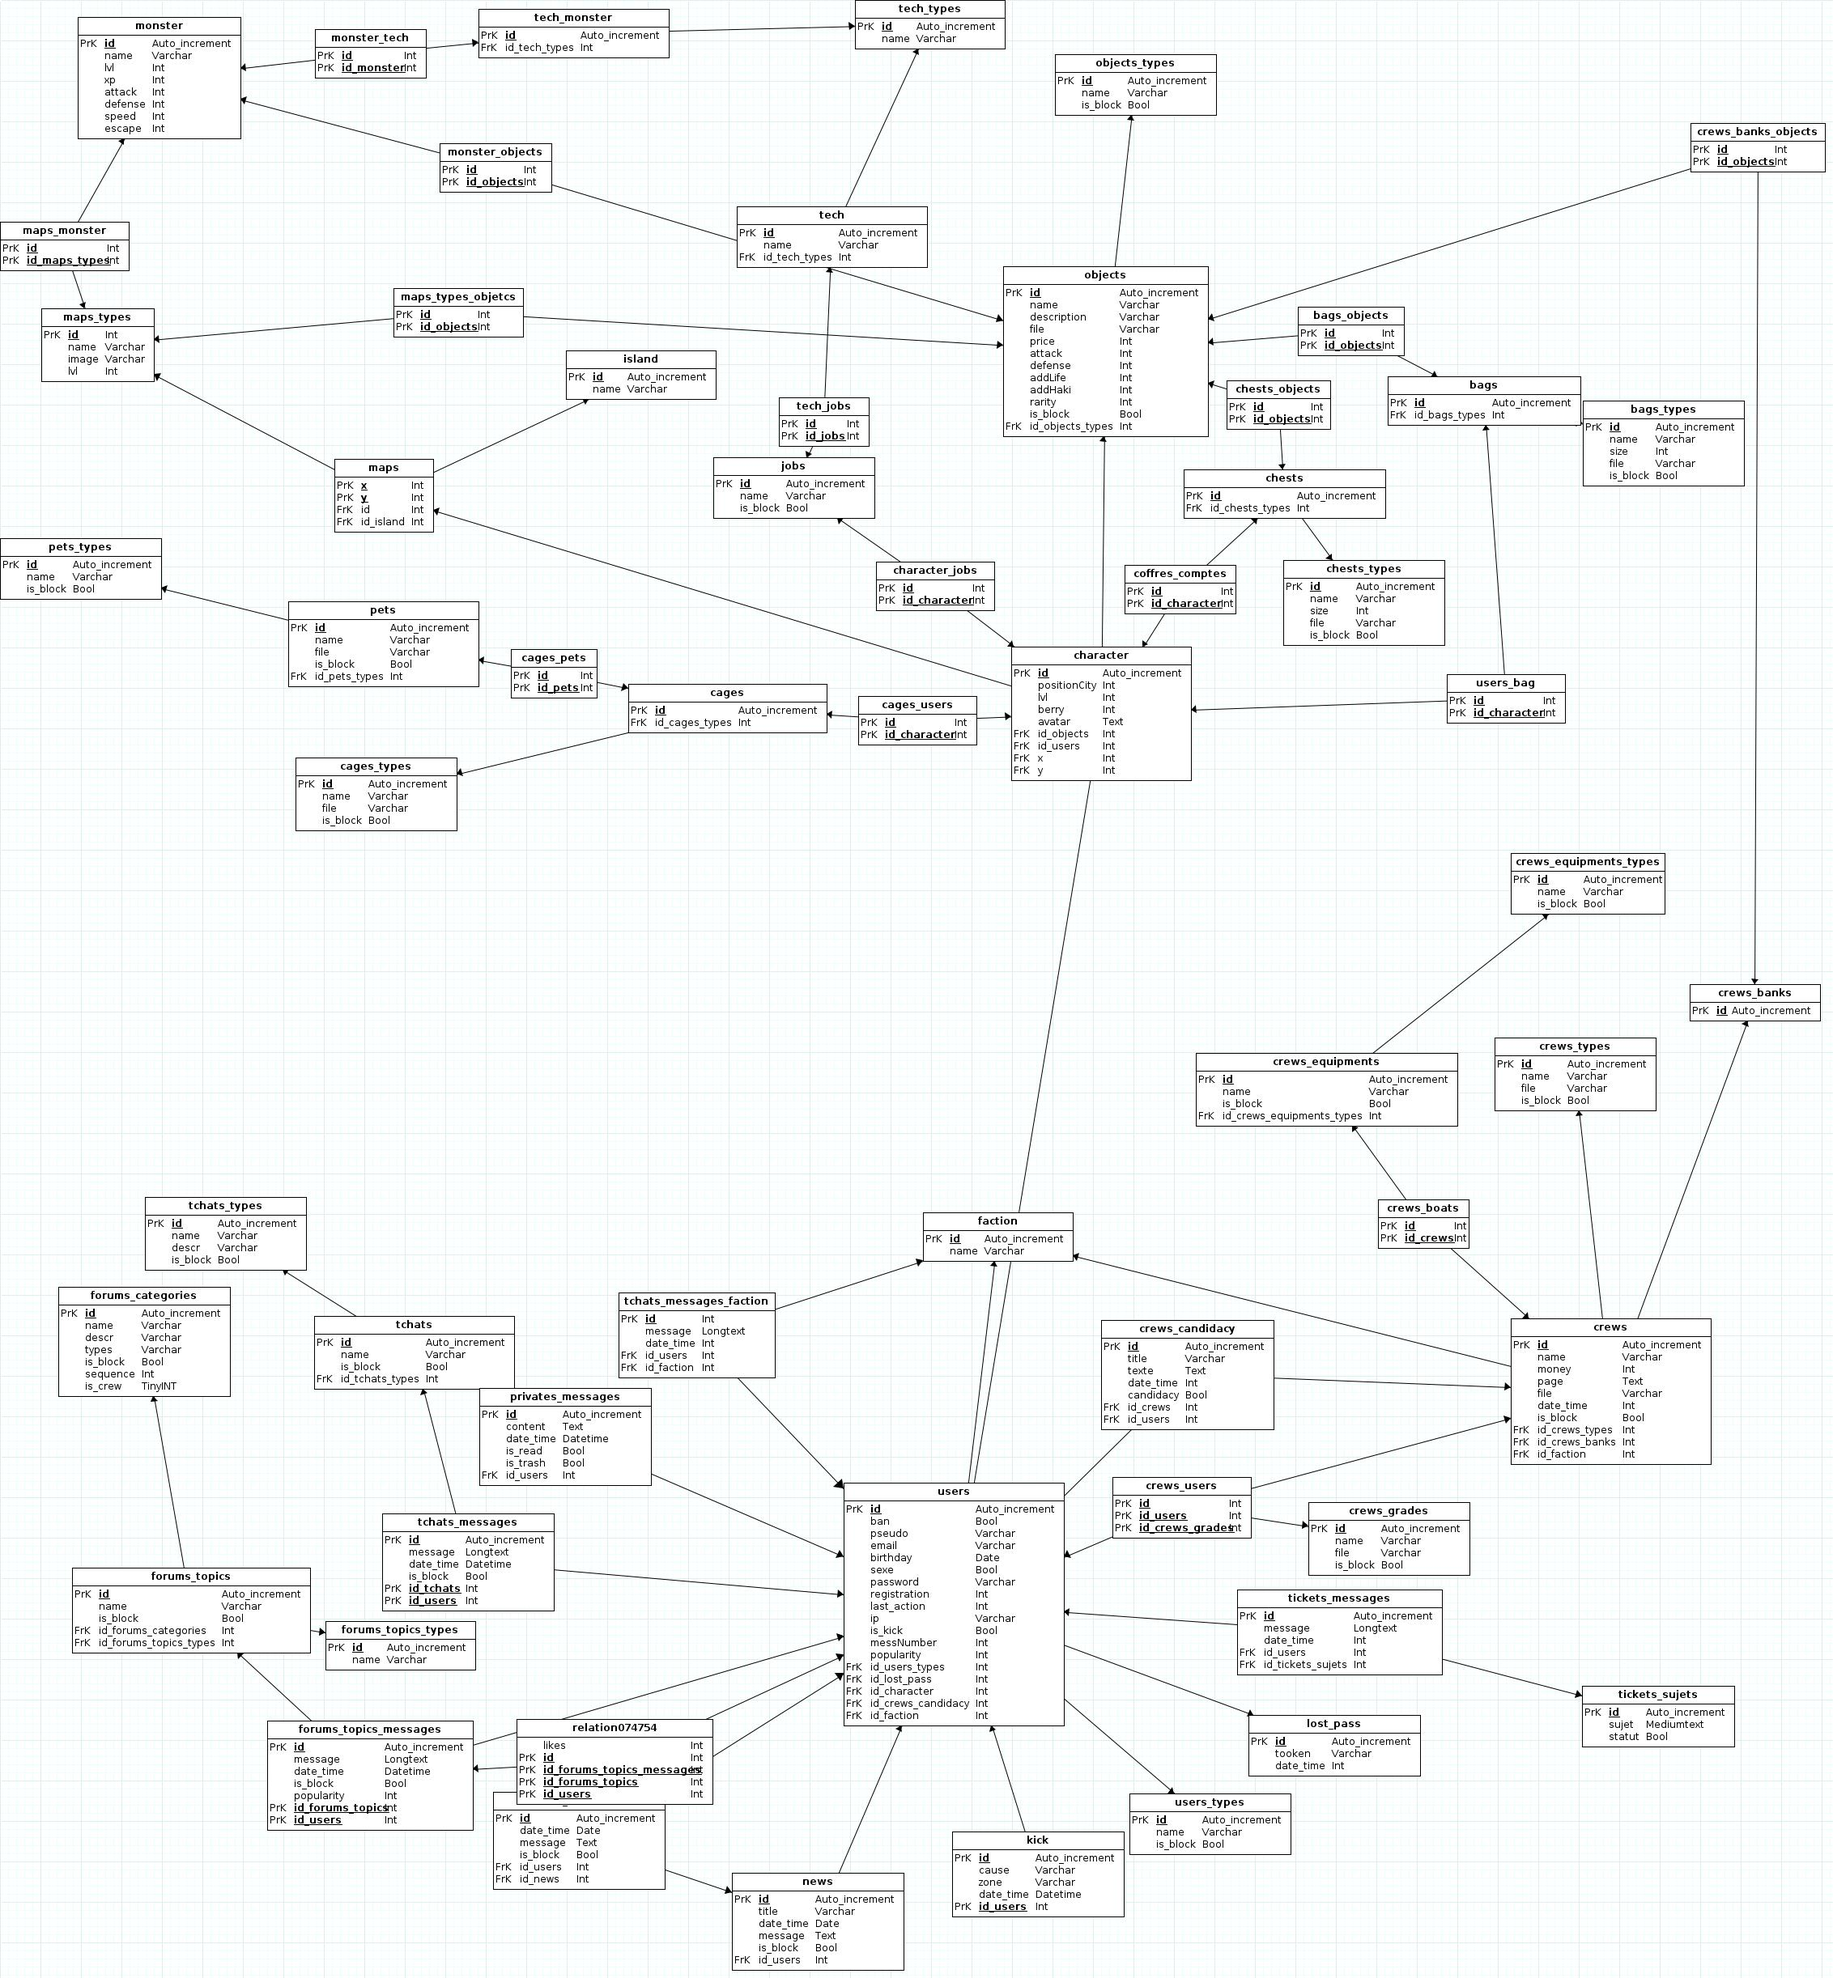
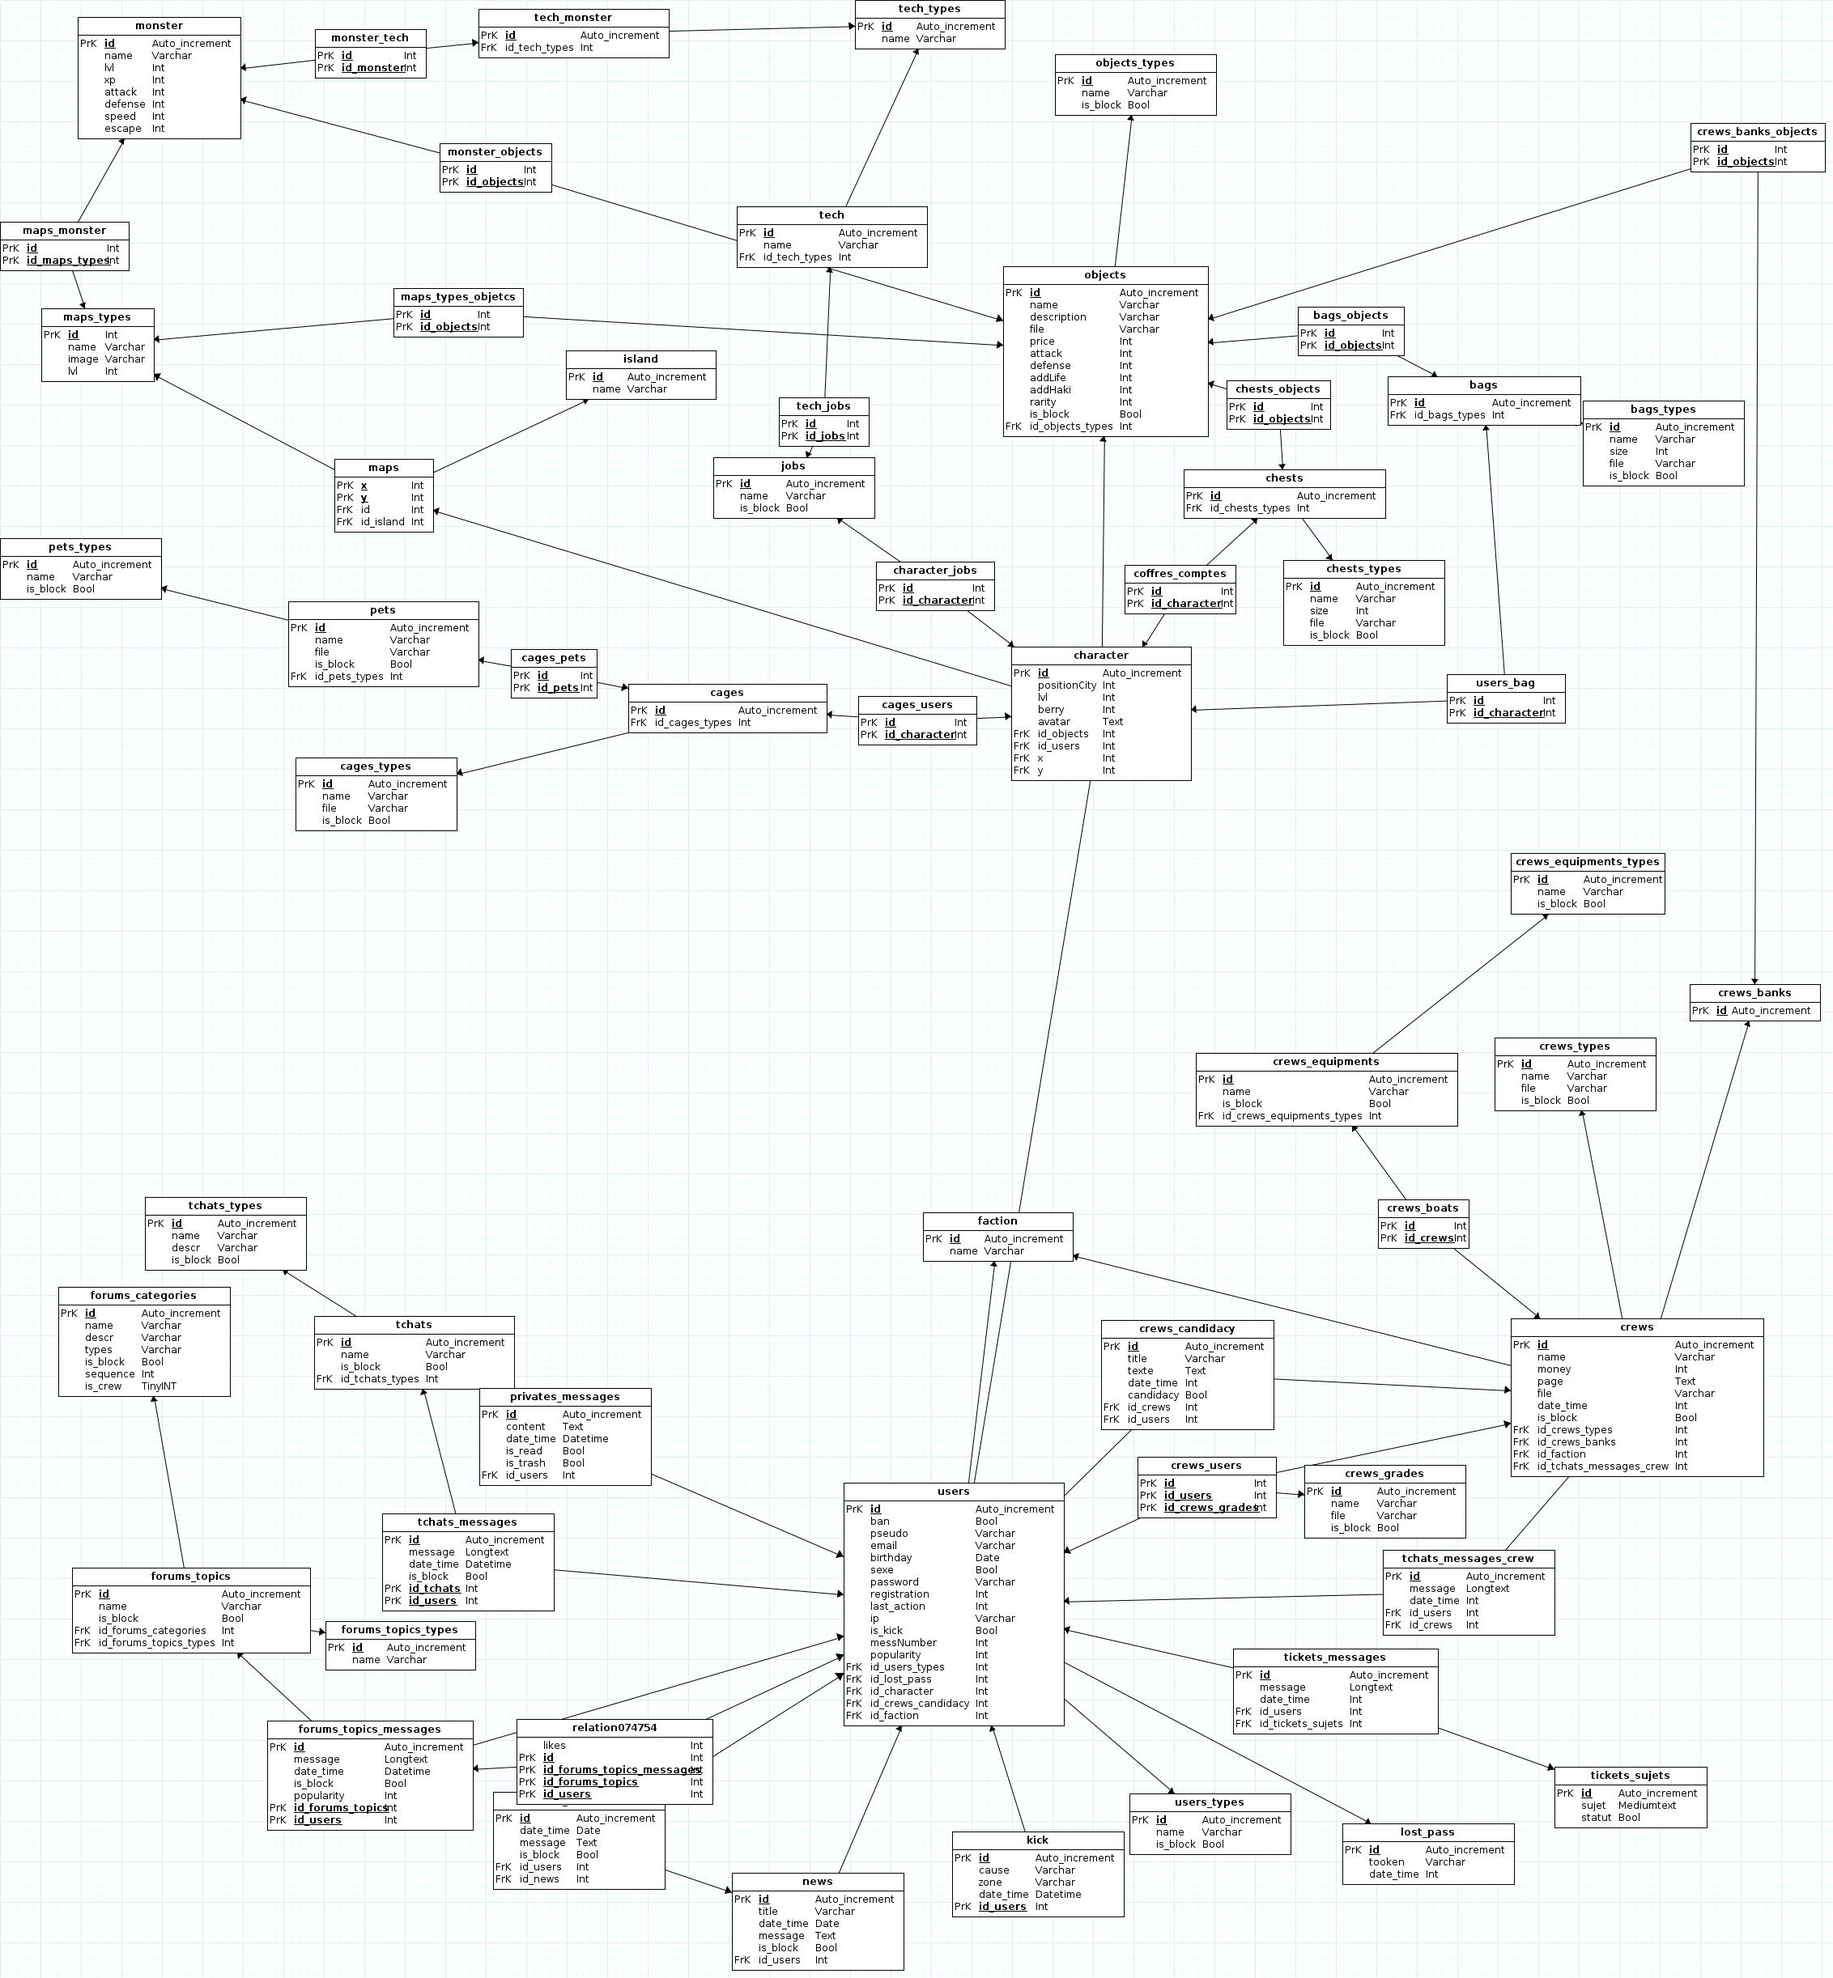
Ajout liste co sur le sallon de son tchat + correction bug tchat privé equipage

diff --git a/assets/js/tchat/tchat.js b/assets/js/tchat/tchat.js
@@ -8,42 +8,42 @@ $(document).ready(function(){
             socket.disconnect();
         });
 
-        function addMessage(uId, uname, urank, umsg){
-                supp = "";
-                classCss = "";
-                var regex = new RegExp(myname);
-                if(umsg.match(regex) != null) {
-                    classCss = 'messageTchatMoi';
-                    $('#notif')[0].play();
-                }
-                //dateTime = time();
-                var date = new Date();
-                var content = '<div class="tchat_message" id="msgT"> <div class="columns small-12"><div class="row"><div class="columns medium-2 small-3">'
-                                  + '<div><strong><a href="'+url_user+'/'+uId+'" class="'+urank+'">' +uname
-                                  + '</a></strong></div><div class="message_tchat_milieu"><img data-pseudo="' + uname + '" class="avatarTchat avatarTchat'+urank+'" src="'+img_url+'/avatarsJoueurs/'+uId+'.png"></img></div>'
-                                  + '</div><div class="panel columns medium-10 small-9 messageTchat ' + classCss + '" id="'+urank+'"><div class="message_tchat_haut" id="'+urank+'"">'
-                                  +'Posté à '
-                                  + date.toLocaleString()
-                                  + supp
-                                  + '</div><div class="message_tchat_milieu">'
-                                  + umsg
-                                  + '</div><div class="message_tchat_bas"></div></div></div></div>';
-
-                                $('#msgT').prepend(content);
+    function addMessage(uId, uname, urank, umsg){
+        supp = "";
+        classCss = "";
+        var regex = new RegExp(myname);
+        if(umsg.match(regex) != null) {
+            classCss = 'messageTchatMoi';
+            $('#notif')[0].play();
         }
+        //dateTime = time();
+        var date = new Date();
+        var content = '<div class="tchat_message" id="msgT"> <div class="columns small-12"><div class="row"><div class="columns medium-2 small-3">'
+                          + '<div><strong><a href="'+url_user+'/'+uId+'" class="'+urank+'">' +uname
+                          + '</a></strong></div><div class="message_tchat_milieu"><img data-pseudo="' + uname + '" class="avatarTchat avatarTchat'+urank+'" src="'+img_url+'/avatarsJoueurs/'+uId+'.png"></img></div>'
+                          + '</div><div class="panel columns medium-10 small-9 messageTchat ' + classCss + '" id="'+urank+'"><div class="message_tchat_haut" id="'+urank+'"">'
+                          +'Posté à '
+                          + date.toLocaleString()
+                          + supp
+                          + '</div><div class="message_tchat_milieu">'
+                          + umsg
+                          + '</div><div class="message_tchat_bas"></div></div></div></div>';
 
-         // Ajoute un connecté
-        function insertUser(pseudo) {
-                        var message = pseudo+' a rejoins le tchat !';
-                        addMessage(13, 'Pandaman', 'VIP', message);
-        }
+                        $('#msgT').prepend(content);
+    }
 
-                        // Supprime un connecté
-        function deleteUser(pseudo) {
-            var message = pseudo+' a quitté le tchat !';
-                        addMessage(13, 'Pandaman', 'VIP', message);
-        }
-        
+    // Ajoute un connecté
+   function insertUser(pseudo) {
+            var message = pseudo+' a rejoins le tchat !';
+            addMessage(13, 'Pandaman', 'VIP', message);
+   }
+
+                   // Supprime un connecté
+   function deleteUser(pseudo) {
+    var message = pseudo+' a quitté le tchat !';
+                addMessage(13, 'Pandaman', 'VIP', message);
+   }
+
         //Ajout pseudo quand lors du clic sur un avatar
     $("#tchat_container").click(function(e){
         if(e.target.nodeName == "IMG") {
@@ -53,7 +53,7 @@ $(document).ready(function(){
                 if(value.name == "data-pseudo") {
                     pseudo = value.nodeValue;
                 }
-            });		
+            });
             $("#msg").val($("#msg").val() + pseudo + " > ");
         }
     });
@@ -63,11 +63,11 @@ $(document).ready(function(){
 
          socket.on('connect', function(){
                         socket.emit('authenticate', {id: userId, pseudo: myname, rank: ranks,token: token, tchat_id: salle});
-        }); 
+        });
             // Quand on reçoit un message, on l'insère dans la page
         socket.on('message', function(data) {
             addMessage(data.id, data.pseudo, data.rank, data.message);
-        }); 
+        });
 
             // Quand un nouveau client se connecte, on affiche l'information (va disparraitre)
         socket.on('nouveau_client', function(pseudo){
@@ -75,12 +75,12 @@ $(document).ready(function(){
         });
 
         socket.on('online_web', function(data){
-                        /*
+                        
              $("#online_web").find(".online").remove();
             $.each(data, function(key, value){
                 $('#online_web').append('<li class="online">'+value +'</li>');
             });
-            */
+            
         });
 
         socket.on('init_mess', function(initMess){
@@ -96,24 +96,25 @@ $(document).ready(function(){
                 //document.location.href="/login";
         });
 
-                $('#send_button').click(function(){ //use clicks message send button
-                        var message = $('#msg').val(); //get message text
-						if(myname == ""){ //empty name?
-                                alert("Vous n'êtes pas connecté...");
-                                return;
-                        }
-                        if(message == ""){ //emtpy message?
-                                alert("Entrer un message !");
-                                return;
-                        }
-                        $('#msg').val('');
-                        socket.emit('message', message); // Transmet le message aux autres
-                        addMessage(userId, myname, ranks, message);
-                });
-				
-		socket.on('spam', function(spam){
-                if (spam.spam === true) {
-					addMessage(13, 'Pandaman', 'VIP', "Votre message n'a pas été envoyé car il est considéré comme spam");
-                }
-            });
+    $('#send_button').click(function(){ //use clicks message send button
+        var message = $('#msg').val(); //get message text
+            if(myname == ""){ //empty name?
+                alert("Vous n'êtes pas connecté...");
+                return;
+            }
+            if(message == ""){ //emtpy message?
+                alert("Entrer un message !");
+                return;
+            }
+            $('#msg').val('');
+            socket.emit('message', message); // Transmet le message aux autres
+            addMessage(userId, myname, ranks, message);
+    });
+
+        socket.on('spam', function(spam){
+        if (spam.spam === true) {
+                                addMessage(13, 'Pandaman', 'VIP', "Votre message n'a pas été envoyé car il est considéré comme spam");
+        }
+    });
 });
+

diff --git a/server/tchat/app.js b/server/tchat/app.js
@@ -28,6 +28,15 @@ function isSpam(old, last){
    }
 }
 
+function listCo(id_tchat) {
+    var namespace = '/';
+    var pseudo = [];
+    for (var socketId in io.nsps[namespace].adapter.rooms[id_tchat]) {
+      pseudo.push(io.sockets.connected[socketId].pseudo);
+    }
+    return pseudo;
+}
+
 function insertLastMess(id, pseudo, rank, message, id_tchat)
 {
   if (id_tchat > 0 && id_tchat < 4) {
@@ -45,10 +54,10 @@ function insertLastMess(id, pseudo, rank, message, id_tchat)
     var post = {
      message: message,
      date_time : Math.round(new Date().getTime() / 1000),
-     id_faction: id_tchat,
+     id_crews: id_tchat,
      id_users: id
     }
-    var query = connection.query('INSERT INTO tchats_messages_faction SET ?', post, function(err, resultat) {
+    var query = connection.query('INSERT INTO tchats_messages_crew SET ?', post, function(err, resultat) {
     });
   }
 }
@@ -105,12 +114,11 @@ socket.auth = false;
                         socket.myId = data.id;
                         socket.tchat_id = data.tchat_id;
                         console.log("Connection au tchat de :" + data.pseudo);
-                        online_web.push(data.pseudo);
-                        socket.emit('init_mess', lastsMess);
-                        socket.emit('online_web', online_web);
-                        //socket.broadcast.to('1').emit('nouveau_client', socket.pseudo);
+                        
                         socket.broadcast.to(socket.tchat_id).emit('nouveau_client', socket.pseudo);
-                        socket.broadcast.to(socket.tchat_id).emit('online_web', online_web);
+                        var online = listCo(socket.tchat_id);
+                        socket.emit('online_web', online);
+                        socket.broadcast.to(socket.tchat_id).emit('online_web', online);
                     
                     //}
                 //}
@@ -151,8 +159,9 @@ socket.auth = false;
 
     socket.on('disconnect', function () {
         console.log(socket.pseudo+" c'est déconnecté.");
-        online_web.splice(online_web.indexOf(socket.pseudo), 1);
-        socket.broadcast.to(socket.tchat_id).emit('online_web', online_web);
+        var online = listCo(socket.tchat_id);
+        delete online[socket.pseudo];
+        socket.broadcast.to(socket.tchat_id).emit('online_web', online);
         socket.broadcast.to(socket.tchat_id).emit('leave', socket.pseudo);
     });
 

diff --git a/application/models/Tchat_model.php b/application/models/Tchat_model.php
@@ -18,10 +18,10 @@ class Tchat_model extends CI_Model {
 									  ", array($id_tchat));
 			return $query->result();
 		} else {
-			$query = $this->db->query("SELECT t.message, t.id, t.date_time, u.pseudo, ut.name AS ranks, u.id AS userId FROM tchats_messages_faction t
+			$query = $this->db->query("SELECT t.message, t.id, t.date_time, u.pseudo, ut.name AS ranks, u.id AS userId FROM tchats_messages_crew t
 									  JOIN users u ON t.id_users = u.id
 									  JOIN users_types ut ON u.id_users_types = ut.id
-									  WHERE t.id_faction = ? ORDER BY id DESC LIMIT 40
+									  WHERE t.id_crews = ? ORDER BY id DESC LIMIT 40
 									  ", array($id_tchat));
 			return $query->result();
 		}
@@ -55,12 +55,12 @@ class Tchat_model extends CI_Model {
 			}
 		}
 		else {
-			$query = $this->db->query("SELECT COUNT(*) AS nbMess FROM tchats_messages_faction WHERE id_faction = ?", array($id_tchat));
+			$query = $this->db->query("SELECT COUNT(*) AS nbMess FROM tchats_messages_crew WHERE id_crews = ?", array($id_tchat));
 			$nbMess = $query->result_array()[0]['nbMess'];
 			if($nbMess > 30){				
 				$this->db->order_by('id');
 				$this->db->limit(1);
-				$this->db->delete('tchats_messages_faction', array('id_faction' => $id_tchat));
+				$this->db->delete('tchats_messages_crew', array('id_crews' => $id_tchat));
 			}
 		}
 	}

diff --git a/application/views/tchat/salle.php b/application/views/tchat/salle.php
@@ -1,4 +1,6 @@
 <div id="tchat_body" class="row">
+  Liste des connectés (Design provisoire...) : <br>
+  <div id="online_web"></div>
   <?php if($connecte): ?>
 	<div id="form_tchat">
 	  <textarea id="msg" name="message"></textarea>
